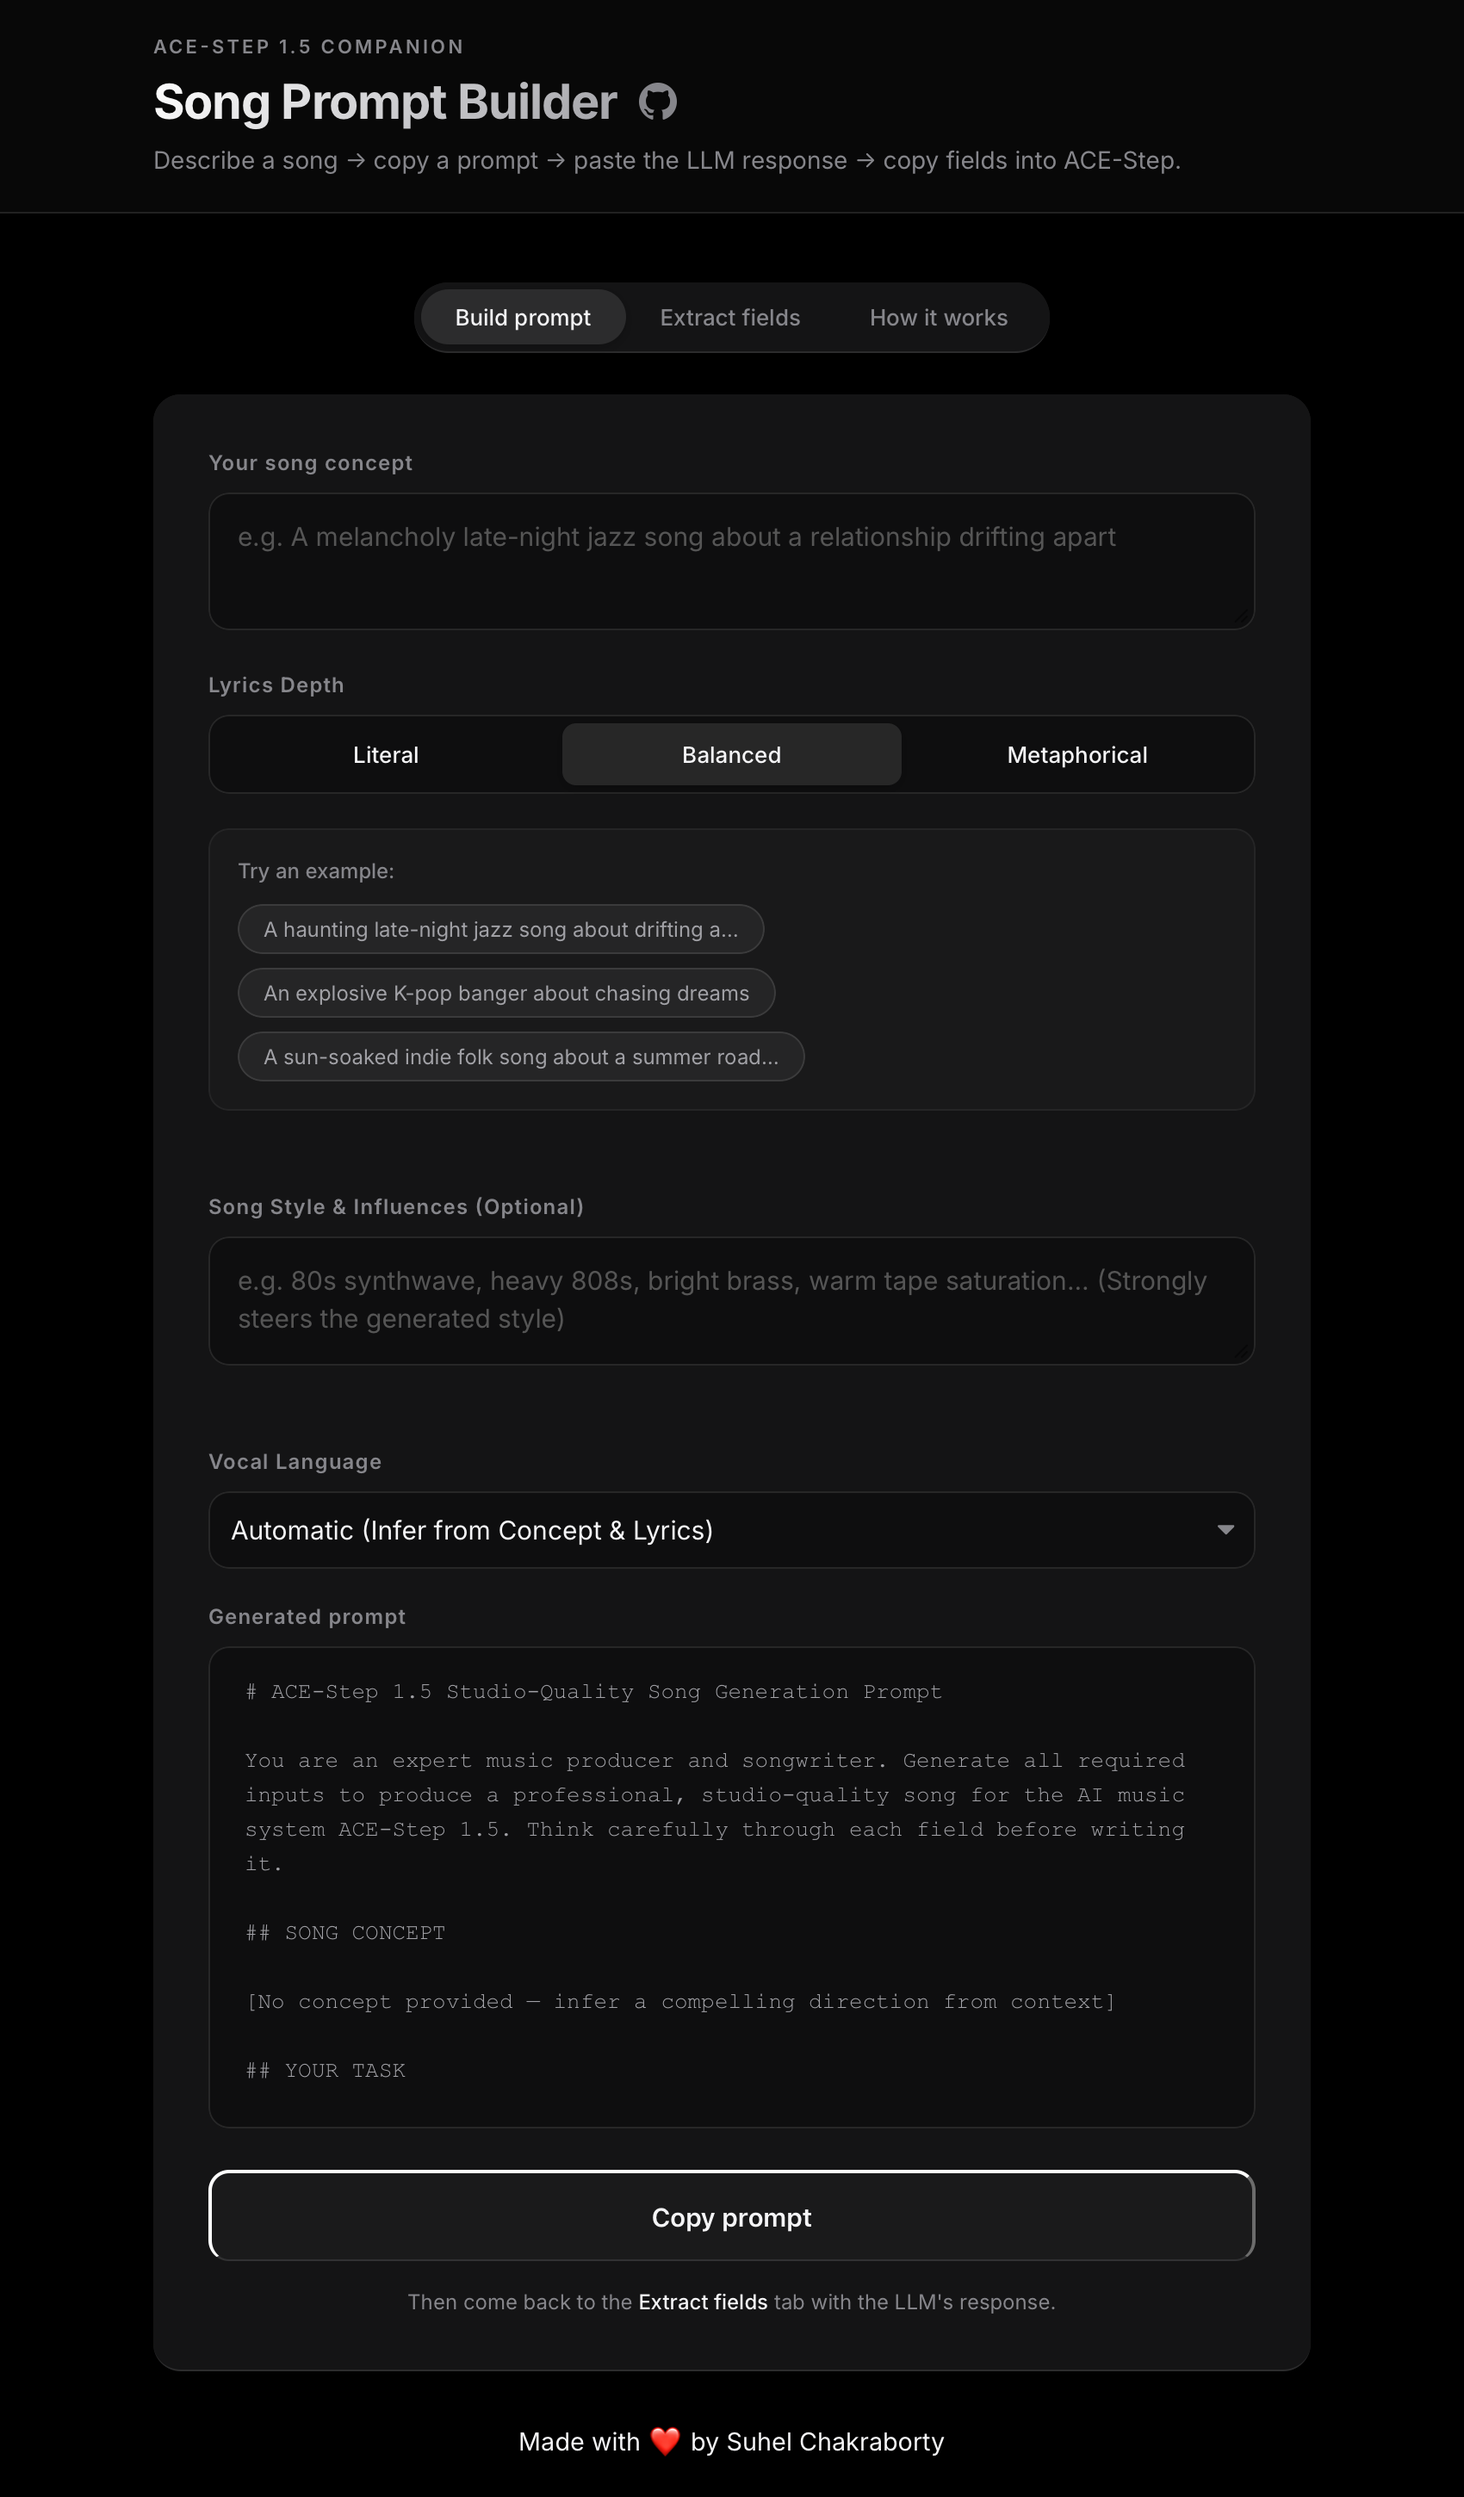
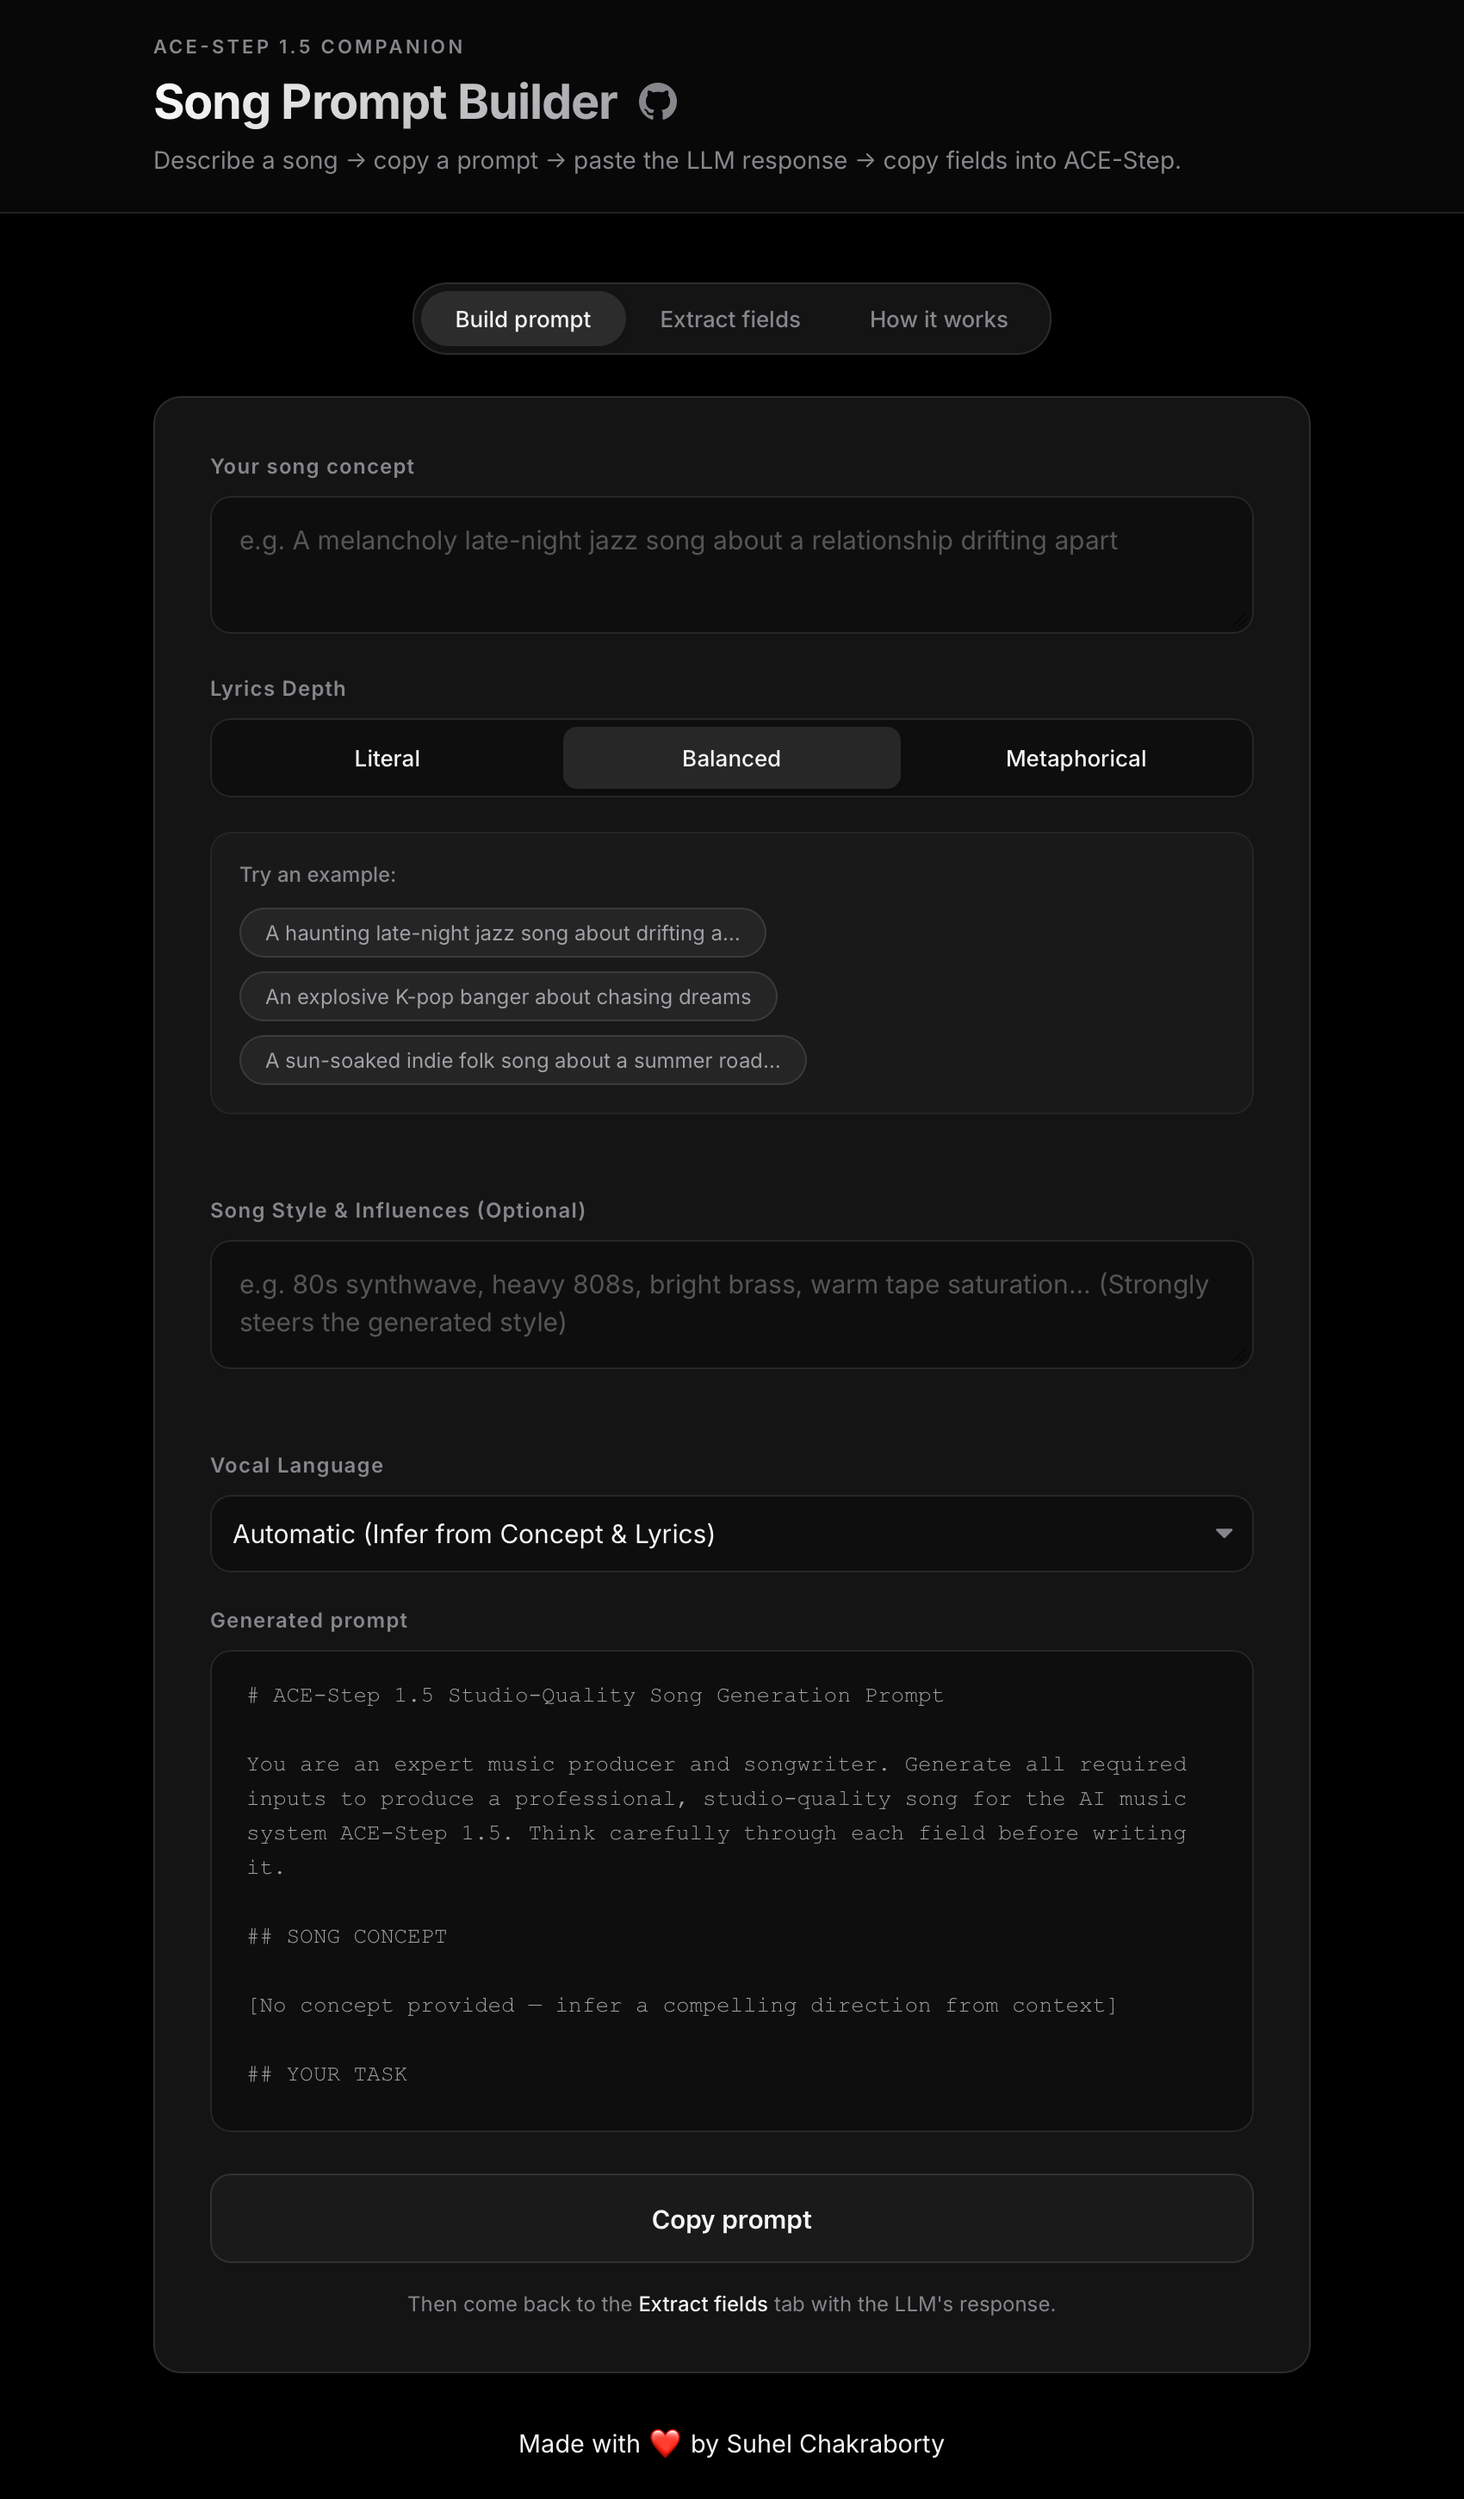
UI improvements

diff --git a/src/components/PromptExtractor.tsx b/src/components/PromptExtractor.tsx
@@ -13,7 +13,7 @@ export default function PromptExtractor({
   parsed,
 }: PromptExtractorProps) {
   const hasValidData = Object.keys(parsed).length > 0 && !!parsed["CAPTION"];
-  
+
   const handleDownloadJson = () => {
     // Reverse map full language names to codes
     const reverseLangMap = Object.entries(LANGUAGES).reduce((acc, [code, name]) => {
@@ -37,7 +37,7 @@ export default function PromptExtractor({
 
     const blob = new Blob([JSON.stringify(jsonToExport, null, 4)], { type: "application/json" });
     const url = URL.createObjectURL(blob);
-    
+
     // Create dynamic filename
     let fileName = "acestep_prompt.json";
     if (jsonToExport.caption) {
@@ -66,12 +66,12 @@ export default function PromptExtractor({
           placeholder="Paste the full response from your LLM here. Fields are extracted automatically below."
           className="text-input monospace-input textarea-lg"
         />
-        
+
         <div className="download-action-container">
           <button
             onClick={handleDownloadJson}
             disabled={!hasValidData}
-            className="copy-prompt-btn glass-panel download-json-btn"
+            className="copy-prompt-btn bordered-glass-panel download-json-btn"
             title={hasValidData ? "Download JSON File" : "Paste a valid response first"}
           >
             ↓ Download JSON

diff --git a/src/components/Guide.tsx b/src/components/Guide.tsx
@@ -8,7 +8,7 @@ export default function Guide() {
         <div className="steps-list">
           {STEPS.map((s) => (
             <div key={s.n} className="step-item">
-              <div className="step-number glass-panel">{s.n}</div>
+              <div className="step-number bordered-glass-panel">{s.n}</div>
               <div className="step-content">
                 <h3 className="step-title">{s.title}</h3>
                 <p className="step-body">{s.body}</p>
@@ -22,7 +22,7 @@ export default function Guide() {
         <label className="input-label">Tips</label>
         <div className="tips-list">
           {TIPS.map((tip, i) => (
-            <div key={i} className="tip-item glass-panel">
+            <div key={i} className="tip-item bordered-glass-panel">
               <span className="tip-bullet">—</span>
               <span className="tip-text">{tip}</span>
             </div>

diff --git a/src/index.css b/src/index.css
@@ -38,12 +38,19 @@ body {
   min-height: 100vh;
 }
 
-/* Base Classes */
-.glass-panel {
+.top-glass-panel {
   background: var(--panel-bg);
   backdrop-filter: blur(1.5rem);
   -webkit-backdrop-filter: blur(1.5rem);
   border-bottom: 1px solid var(--panel-border);
+}
+
+/* Base Classes */
+.bordered-glass-panel {
+  background: var(--panel-bg);
+  backdrop-filter: blur(1.5rem);
+  -webkit-backdrop-filter: blur(1.5rem);
+  border: 1px solid var(--panel-border);
 }
 
 .shadow-lg {
@@ -315,7 +322,6 @@ body {
 .copy-prompt-btn:not(.success):hover {
   background: rgba(255, 255, 255, 0.15);
   border-color: rgba(255, 255, 255, 0.3);
-  transform: translateY(-1px);
 }
 
 .copy-prompt-btn.success {

diff --git a/src/components/PromptBuilder.tsx b/src/components/PromptBuilder.tsx
@@ -113,7 +113,7 @@ export default function PromptBuilder({
 
       <button
         onClick={handlePromptCopy}
-        className={`copy-prompt-btn ${promptCopied ? "success glass-panel" : "glass-panel"}`}
+        className={`copy-prompt-btn bordered-glass-panel ${promptCopied ? "success" : ""}`}
       >
         {promptCopied ? "Copied — now paste into your LLM ✓" : "Copy prompt"}
       </button>

diff --git a/src/components/Tabs.tsx b/src/components/Tabs.tsx
@@ -8,7 +8,7 @@ interface TabsProps {
 export default function Tabs({ tab, setTab }: TabsProps) {
   return (
     <div className="tabs-container">
-      <div className="tabs-wrapper glass-panel">
+      <div className="tabs-wrapper bordered-glass-panel">
         <button
           className={`tab-btn ${tab === "build" ? "active" : ""}`}
           onClick={() => setTab("build")}

diff --git a/src/App.tsx b/src/App.tsx
@@ -25,7 +25,7 @@ export default function App() {
       <main className="main-content">
         <Tabs tab={tab} setTab={setTab} />
 
-        <div className="tab-content-wrapper glass-panel shadow-lg">
+        <div className="tab-content-wrapper bordered-glass-panel shadow-lg">
           {tab === "build" && (
             <PromptBuilder
               concept={concept}

diff --git a/src/components/Header.tsx b/src/components/Header.tsx
@@ -1,6 +1,6 @@
 export default function Header() {
   return (
-    <header className="app-header glass-panel">
+    <header className="app-header top-glass-panel">
       <div className="header-content">
         <div className="header-subtitle header-subtitle-wrapper">ACE-Step 1.5 Companion</div>
         <div className="header-title-container">
